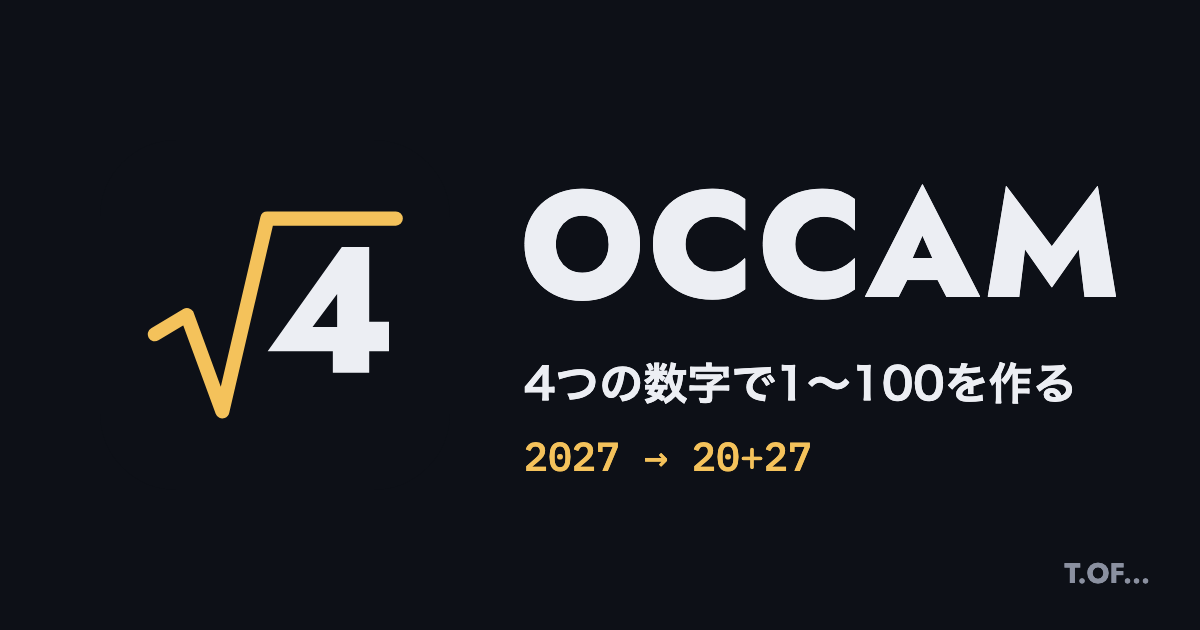
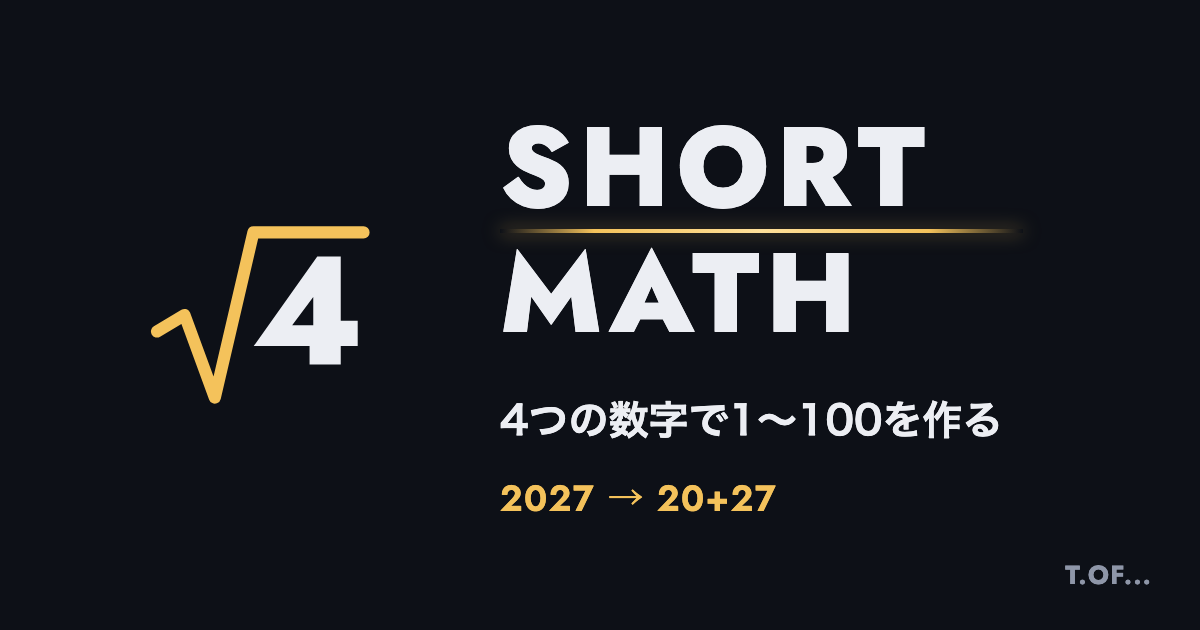
表示名を SHORT MATH に変える（旧 OCCAM）
App Store に同名のパズルがあり、日本に読みが同じ商標があったため。
ロゴは 2 段にして、金の線を間の横線にした。共有画像も作り直した。

diff --git a/index.html b/index.html
@@ -19,11 +19,11 @@
     })();
   </script>
   <meta name="description" content="4つの数字を並んだ順のまま使い、1〜100を作るテンパズル。記号が少ないほど星が増える。いちばん短い式を探す数字パズル。">
-  <title>OCCAM — テンパズル：4つの数字で1〜100を最短の式で</title>
+  <title>SHORT MATH — テンパズル：4つの数字で1〜100を最短の式で</title>
 
   <meta property="og:type" content="website">
-  <meta property="og:site_name" content="OCCAM">
-  <meta property="og:title" content="OCCAM — テンパズル：4つの数字で1〜100を最短の式で">
+  <meta property="og:site_name" content="SHORT MATH">
+  <meta property="og:title" content="SHORT MATH — テンパズル：4つの数字で1〜100を最短の式で">
   <meta property="og:description" content="4つの数字を並んだ順のまま使い、1〜100を作るテンパズル。記号が少ないほど星が増える。">
   <meta property="og:url" content="https://t-of.github.io/four-digits/">
   <meta property="og:image" content="https://t-of.github.io/four-digits/icons/og.png">
@@ -35,7 +35,7 @@
   <!-- apple-mobile-web-app-status-bar-style は付けない（black-translucent だと iOS 26 で上部が隠れる） -->
   <meta name="apple-mobile-web-app-capable" content="yes">
   <meta name="mobile-web-app-capable" content="yes">
-  <meta name="apple-mobile-web-app-title" content="OCCAM">
+  <meta name="apple-mobile-web-app-title" content="SHORT MATH">
   <link rel="manifest" href="./manifest.webmanifest">
   <link rel="icon" href="./icons/icon.svg" type="image/svg+xml">
   <link rel="icon" type="image/png" sizes="32x32" href="./icons/favicon-32.png">
@@ -64,7 +64,7 @@
       </div>
 
       <header class="brand">
-        <h1 class="logo" aria-label="OCCAM"><span>OCCAM</span></h1>
+        <h1 class="logo" aria-label="SHORT MATH"><span>SHORT<br>MATH</span></h1>
       </header>
 
       <div class="home__cards">
@@ -112,7 +112,7 @@
           <button class="pill" data-wak="install" hidden>アプリにする</button>
           <button class="pill" data-wak="share">共有</button>
         </div>
-        <div><a href="/">T.OF...</a> ・ <a href="https://t-of.github.io/contact/">問い合わせ</a> ・ <span class="ver">v38</span></div>
+        <div><a href="/">T.OF...</a> ・ <a href="https://t-of.github.io/contact/">問い合わせ</a> ・ <span class="ver">v39</span></div>
       </footer>
     </section>
 

diff --git a/style.css b/style.css
@@ -1,5 +1,5 @@
 /* =====================================================================
-   OCCAM — 見た目
+   SHORT MATH（旧 OCCAM）— 見た目
    方針: 「剃刀」。暗い紙に、白い数字と細い金の線。飾りは削り、数字と式を主役にする。
    金（--gold）は「星・目標・成功」だけに使う。操作できるもの（カーソル・記号）は青（--ink）。
    ===================================================================== */
@@ -356,8 +356,8 @@ code {
   font-size: var(--fs-4);
   font-weight: 800;
   letter-spacing: 0.06em;
-  margin-left: -0.04em;   /* O の丸みの分、カードの左端に optical に合わせる */
-  line-height: 1;
+  margin-left: -0.04em;   /* S の丸みの分、カードの左端に optical に合わせる */
+  line-height: 1.22;
 }
 .logo span {
   background: linear-gradient(180deg, var(--logo-top) 30%, var(--logo-bot));
@@ -370,14 +370,14 @@ code {
   content: "";
   position: absolute;
   left: 0; right: -4%;
-  top: 52%;
+  top: calc(50% - 1px);
   height: 2px;
   background: linear-gradient(90deg, transparent, var(--gold) 18%, var(--gold2) 50%, var(--gold) 82%, transparent);
-  transform: rotate(-9deg);
   box-shadow: 0 0 12px rgba(var(--gold-rgb), 0.55);
-  animation: slash 0.9s 0.15s var(--ease) both;
+  animation: rule 0.9s 0.15s var(--ease) both;
   transform-origin: left center;
 }
+@keyframes rule { from { transform: scaleX(0); opacity: 0; } }
 @keyframes slash { from { transform: rotate(-9deg) scaleX(0); opacity: 0; } }
 
 .home__cards { display: flex; flex-direction: column; gap: 16px; }

diff --git a/main.js b/main.js
@@ -15,7 +15,7 @@ function save(key, value) {
   try { localStorage.setItem(STORE + key, JSON.stringify(value)); } catch { /* 保存できなくても遊べる */ }
 }
 
-WebAppKit.init({ title: 'OCCAM', text: '4つの数字を、いちばん短い式で。1〜100を作るテンパズル。' });
+WebAppKit.init({ title: 'SHORT MATH', text: '4つの数字を、いちばん短い式で。1〜100を作るテンパズル。' });
 if ('serviceWorker' in navigator) navigator.serviceWorker.register('./sw.js');
 
 const $ = (id) => document.getElementById(id);
@@ -712,7 +712,7 @@ function finish(k) {
     const streak = dailyStreak();
     $('r-daily').textContent = `${streak} 日連続 ・ 次の問題まで ${untilTomorrow()}`;
     const [, mo, da] = dailyDate.split('-');
-    lastShare = `OCCAM 今日の1問 ${Number(mo)}/${Number(da)}\n${starStr(bestStars)} 記号 ${k} 個${streak > 1 ? `（${streak} 日連続）` : ''}`;
+    lastShare = `SHORT MATH 今日の1問 ${Number(mo)}/${Number(da)}\n${starStr(bestStars)} 記号 ${k} 個${streak > 1 ? `（${streak} 日連続）` : ''}`;
     next.textContent = 'おまかせで続ける';
   } else {
     const nt = nextOpen();

diff --git a/sw.js b/sw.js
@@ -9,7 +9,7 @@
 // ブラウザの HTTP キャッシュを通さない（install は reload、fetch は no-cache）。古い main.js と新しい index.html が混ざって動かなくなるのを防ぐ。
 
 const PREFIX = 'four-digits-';
-const VERSION = 'v38';
+const VERSION = 'v39';
 const CACHE = `${PREFIX}${VERSION}`;
 const FONT_CACHE = `${PREFIX}fonts`;
 

diff --git a/README.md b/README.md
@@ -1,4 +1,4 @@
-# OCCAM — 4つの数字で1〜100を最短の式で
+# SHORT MATH — 4つの数字で1〜100を最短の式で
 
 4つの数字を並んだ順のまま使い、1〜100を作るテンパズル。記号が少ないほど星が増える。
 
